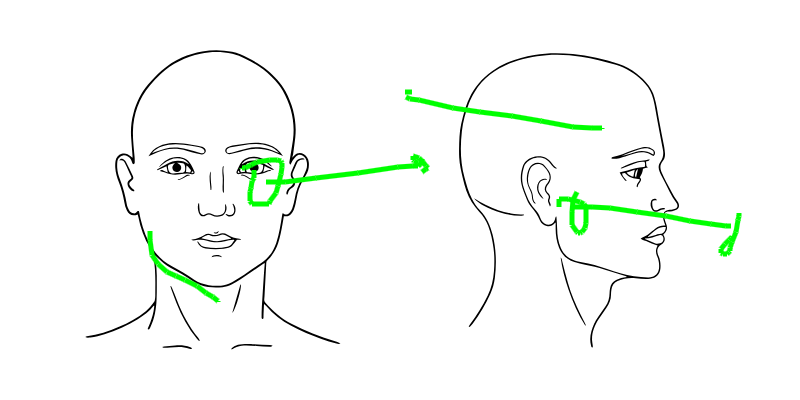
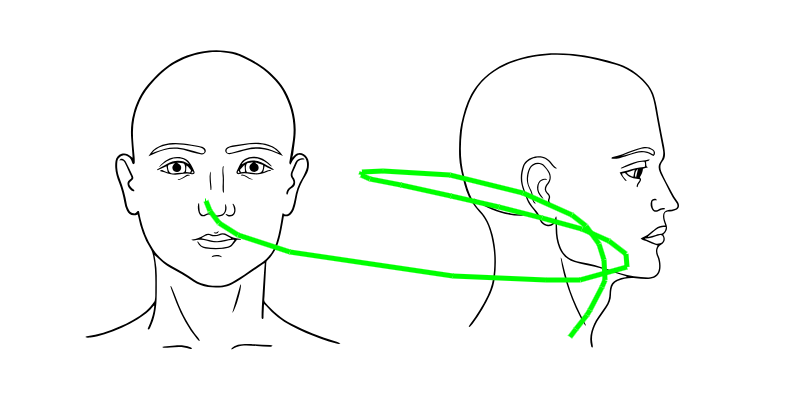
fix bug gambar lokalis asesmen estetika

diff --git a/resources/views/erm/asesmendokter/partials/estetika.blade.php b/resources/views/erm/asesmendokter/partials/estetika.blade.php
@@ -76,16 +76,19 @@
             <label for="kebiasaan_makan">Kebiasaan Makan</label>
             <select class="form-control select2" id="kebiasaan_makan" name="kebiasaan_makan[]" multiple>
                 
-                <option value="Berlemak">Berlemak</option>
-<option value="Tepung-tepungan">Tepung-tepungan</option>
-<option value="Sayur">Sayur</option>
-<option value="Protein seimbang">Protein seimbang</option>
-<option value="Tanpa sayur">Tanpa sayur</option>
-<option value="Tanpa daging">Tanpa daging</option>
-<option value="Makan sehat">Makan sehat</option>
-<option value="Tidak teratur">Tidak teratur</option>
-<option value="Protein">Protein</option>
-<option value="Makanan Manis">Makanan Manis</option>
+                @php
+                    $selectedKebiasaanMakan = old('kebiasaan_makan', json_decode($asesmen->kebiasaan_makan ?? '[]', true));
+                @endphp
+                <option value="Berlemak" {{ in_array('Berlemak', $selectedKebiasaanMakan) ? 'selected' : '' }}>Berlemak</option>
+                <option value="Tepung-tepungan" {{ in_array('Tepung-tepungan', $selectedKebiasaanMakan) ? 'selected' : '' }}>Tepung-tepungan</option>
+                <option value="Sayur" {{ in_array('Sayur', $selectedKebiasaanMakan) ? 'selected' : '' }}>Sayur</option>
+                <option value="Protein seimbang" {{ in_array('Protein seimbang', $selectedKebiasaanMakan) ? 'selected' : '' }}>Protein seimbang</option>
+                <option value="Tanpa sayur" {{ in_array('Tanpa sayur', $selectedKebiasaanMakan) ? 'selected' : '' }}>Tanpa sayur</option>
+                <option value="Tanpa daging" {{ in_array('Tanpa daging', $selectedKebiasaanMakan) ? 'selected' : '' }}>Tanpa daging</option>
+                <option value="Makan sehat" {{ in_array('Makan sehat', $selectedKebiasaanMakan) ? 'selected' : '' }}>Makan sehat</option>
+                <option value="Tidak teratur" {{ in_array('Tidak teratur', $selectedKebiasaanMakan) ? 'selected' : '' }}>Tidak teratur</option>
+                <option value="Protein" {{ in_array('Protein', $selectedKebiasaanMakan) ? 'selected' : '' }}>Protein</option>
+                <option value="Makanan Manis" {{ in_array('Makanan Manis', $selectedKebiasaanMakan) ? 'selected' : '' }}>Makanan Manis</option>
             </select>
         </div>
     </div>
@@ -93,9 +96,12 @@
         <div class="form-group">
             <label for="kebiasaan_minum">Kebiasaan Minum</label>
             <select class="form-control select2" id="kebiasaan_minum" name="kebiasaan_minum[]" multiple>
-                <option value="8 gelas / hari">8 gelas / hari</option>
-<option value="< 8 gelas / hari">&lt; 8 gelas / hari</option>
-<option value="Suka minum manis">Suka minum manis</option>
+                @php
+                    $selectedKebiasaanMinum = old('kebiasaan_minum', json_decode($asesmen->kebiasaan_minum ?? '[]', true));
+                @endphp
+                <option value="8 gelas / hari" {{ in_array('8 gelas / hari', $selectedKebiasaanMinum) ? 'selected' : '' }}>8 gelas / hari</option>
+                <option value="< 8 gelas / hari" {{ in_array('< 8 gelas / hari', $selectedKebiasaanMinum) ? 'selected' : '' }}>&lt; 8 gelas / hari</option>
+                <option value="Suka minum manis" {{ in_array('Suka minum manis', $selectedKebiasaanMinum) ? 'selected' : '' }}>Suka minum manis</option>
 
             </select>
         </div>
@@ -182,13 +188,16 @@
         <div class="form-group">
             <label for="area_kerutan">Area Kerutan</label>
             <select class="form-control select2" id="area_kerutan" name="area_kerutan[]" multiple>
-               <option value="Dahi">Dahi</option>
-<option value="Sudut mata">Sudut mata</option>
-<option value="Hidung">Hidung</option>
-<option value="Sudut bibir">Sudut bibir</option>
-<option value="Minimal">Minimal</option>
-<option value="Merata">Merata</option>
-<option value="Pipi">Pipi</option>
+               @php
+                    $selectedAreaKerutan = old('area_kerutan', json_decode($asesmen->area_kerutan ?? '[]', true));
+                @endphp
+                <option value="Dahi" {{ in_array('Dahi', $selectedAreaKerutan) ? 'selected' : '' }}>Dahi</option>
+                <option value="Sudut mata" {{ in_array('Sudut mata', $selectedAreaKerutan) ? 'selected' : '' }}>Sudut mata</option>
+                <option value="Hidung" {{ in_array('Hidung', $selectedAreaKerutan) ? 'selected' : '' }}>Hidung</option>
+                <option value="Sudut bibir" {{ in_array('Sudut bibir', $selectedAreaKerutan) ? 'selected' : '' }}>Sudut bibir</option>
+                <option value="Minimal" {{ in_array('Minimal', $selectedAreaKerutan) ? 'selected' : '' }}>Minimal</option>
+                <option value="Merata" {{ in_array('Merata', $selectedAreaKerutan) ? 'selected' : '' }}>Merata</option>
+                <option value="Pipi" {{ in_array('Pipi', $selectedAreaKerutan) ? 'selected' : '' }}>Pipi</option>
 
             </select>
         </div>
@@ -211,21 +220,24 @@
         <div class="form-group">
             <label for="kelainan_kulit">Kelainan Kulit</label>
             <select class="form-control select2" id="kelainan_kulit" name="kelainan_kulit[]" multiple>
-                <option value="Pori besar">Pori besar</option>
-<option value="Hiperpigmentasi">Hiperpigmentasi</option>
-<option value="Hipopigmentasi">Hipopigmentasi</option>
-<option value="Acne milia">Acne milia</option>
-<option value="Acne kistik">Acne kistik</option>
-<option value="Acne nodul">Acne nodul</option>
-<option value="Naevus pigmentosus">Naevus pigmentosus</option>
-<option value="Scar hipertrofi">Scar hipertrofi</option>
-<option value="Keloid">Keloid</option>
-<option value="Striae">Striae</option>
-<option value="Tidak ada">Tidak ada</option>
-<option value="Acne komedonal">Acne komedonal</option>
-<option value="Early Aging">Early Aging</option>
-<option value="Scar">Scar</option>
-<option value="PIE/PIH">PIE/PIH</option>
+                @php
+                    $selectedKelainanKulit = old('kelainan_kulit', json_decode($asesmen->kelainan_kulit ?? '[]', true));
+                @endphp
+                <option value="Pori besar" {{ in_array('Pori besar', $selectedKelainanKulit) ? 'selected' : '' }}>Pori besar</option>
+                <option value="Hiperpigmentasi" {{ in_array('Hiperpigmentasi', $selectedKelainanKulit) ? 'selected' : '' }}>Hiperpigmentasi</option>
+                <option value="Hipopigmentasi" {{ in_array('Hipopigmentasi', $selectedKelainanKulit) ? 'selected' : '' }}>Hipopigmentasi</option>
+                <option value="Acne milia" {{ in_array('Acne milia', $selectedKelainanKulit) ? 'selected' : '' }}>Acne milia</option>
+                <option value="Acne kistik" {{ in_array('Acne kistik', $selectedKelainanKulit) ? 'selected' : '' }}>Acne kistik</option>
+                <option value="Acne nodul" {{ in_array('Acne nodul', $selectedKelainanKulit) ? 'selected' : '' }}>Acne nodul</option>
+                <option value="Naevus pigmentosus" {{ in_array('Naevus pigmentosus', $selectedKelainanKulit) ? 'selected' : '' }}>Naevus pigmentosus</option>
+                <option value="Scar hipertrofi" {{ in_array('Scar hipertrofi', $selectedKelainanKulit) ? 'selected' : '' }}>Scar hipertrofi</option>
+                <option value="Keloid" {{ in_array('Keloid', $selectedKelainanKulit) ? 'selected' : '' }}>Keloid</option>
+                <option value="Striae" {{ in_array('Striae', $selectedKelainanKulit) ? 'selected' : '' }}>Striae</option>
+                <option value="Tidak ada" {{ in_array('Tidak ada', $selectedKelainanKulit) ? 'selected' : '' }}>Tidak ada</option>
+                <option value="Acne komedonal" {{ in_array('Acne komedonal', $selectedKelainanKulit) ? 'selected' : '' }}>Acne komedonal</option>
+                <option value="Early Aging" {{ in_array('Early Aging', $selectedKelainanKulit) ? 'selected' : '' }}>Early Aging</option>
+                <option value="Scar" {{ in_array('Scar', $selectedKelainanKulit) ? 'selected' : '' }}>Scar</option>
+                <option value="PIE/PIH" {{ in_array('PIE/PIH', $selectedKelainanKulit) ? 'selected' : '' }}>PIE/PIH</option>
 
             </select>
         </div>
@@ -254,7 +266,7 @@
 
                             <!-- Textarea -->
                             <div class="col-12 mb-3">
-                                <textarea class="form-control" rows="4" placeholder="Tuliskan deskripsi tanda..."></textarea>
+                                <textarea id="ket_status_lokalis" name="ket_status_lokalis" class="form-control" rows="4" placeholder="Tuliskan deskripsi tanda...">{{ old('ket_status_lokalis', $asesmen->ket_status_lokalis ?? '') }}</textarea>
                             </div>
 
                             <!-- Hidden field for image -->

diff --git a/app/Http/Controllers/ERM/AsesmenController.php b/app/Http/Controllers/ERM/AsesmenController.php
@@ -159,9 +159,14 @@ class AsesmenController extends Controller
 
     private function storeAsesmenEstetika(Request $request)
     {
-        if ($request->has('status_lokalis_image')) {
+        // Check if a new image is provided
+        if ($request->has('status_lokalis_image') && !empty($request->status_lokalis_image)) {
             $this->saveLokalisImage($request);
         }
+
+        // Retain the existing image if no new image is provided
+        $existingAsesmen = AsesmenEstetika::where('visitation_id', $request->visitation_id)->first();
+        $statusLokalis = $existingAsesmen->status_lokalis ?? null;
 
         AsesmenEstetika::updateOrCreate(
             ['visitation_id' => $request->visitation_id],
@@ -181,18 +186,18 @@ class AsesmenController extends Controller
                 'n' => $request->n,
                 'r' => $request->r,
                 's' => $request->s,
-                'kebiasaan_makan' => $request->kebiasaan_makan,
-                'kebiasaan_minum' => $request->kebiasaan_minum,
+                'kebiasaan_makan' => $request->filled('kebiasaan_makan') ? json_encode($request->kebiasaan_makan) : null, // Convert array to JSON
+                'kebiasaan_minum' => $request->filled('kebiasaan_minum') ? json_encode($request->kebiasaan_minum) : null, // Convert array to JSON
                 'pola_tidur' => $request->pola_tidur,
                 'kontrasepsi' => $request->kontrasepsi,
                 'riwayat_perawatan' => $request->riwayat_perawatan,
                 'jenis_kulit' => $request->jenis_kulit,
-                'kelembapan' => $request->kelembapan,
+                'kelembaban' => $request->kelembaban,
                 'kekenyalan' => $request->kekenyalan,
-                'area_kerutan' => $request->area_kerutan,
-                'kelainan_kulit' => $request->kelainan_kulit,
+                'area_kerutan' => $request->filled('area_kerutan') ? json_encode($request->area_kerutan) : null, // Convert array to JSON
+                'kelainan_kulit' => $request->filled('kelainan_kulit') ? json_encode($request->kelainan_kulit) : null, // Convert array to JSON
                 'anjuran' => $request->anjuran,
-                'status_lokalis' => $request->status_lokalis,
+                'status_lokalis' => $request->status_lokalis ?? $statusLokalis,
                 'ket_status_lokalis' => $request->ket_status_lokalis,
             ]
         );

diff --git a/resources/views/erm/asesmendokter/create.blade.php b/resources/views/erm/asesmendokter/create.blade.php
@@ -498,12 +498,22 @@ window.onload = function () {
     const canvas = document.getElementById("drawingCanvas");
     const ctx = canvas.getContext("2d");
     const imagePath = "{{ asset($lokalisBackground) }}";
-    
+    const savedImagePath = "{{ asset($lokalisPath) }}"; // Load the saved image path
+
     const img = new Image();
     img.onload = function () {
         canvas.width = img.width;
         canvas.height = img.height;
         ctx.drawImage(img, 0, 0);
+
+        // Load the saved image (if it exists)
+        if (savedImagePath) {
+            const savedImg = new Image();
+            savedImg.onload = function () {
+                ctx.drawImage(savedImg, 0, 0); // Draw the saved image on top of the background
+            };
+            savedImg.src = savedImagePath;
+        }
 
         ctx.strokeStyle = "#00FF00";
         ctx.lineWidth = 5;
@@ -535,7 +545,7 @@ window.onload = function () {
 
         document.getElementById('resetButton').addEventListener('click', function () {
             ctx.clearRect(0, 0, canvas.width, canvas.height);
-            ctx.drawImage(img, 0, 0);  // Reset to background image
+            ctx.drawImage(img, 0, 0); // Reset to background image
         });
     };
 

diff --git a/database/migrations/2025_05_31_123616_create_erm_asesmen_estetika_table.php b/database/migrations/2025_05_31_123616_create_erm_asesmen_estetika_table.php
@@ -35,7 +35,7 @@ return new class extends Migration
             $table->string('kontrasepsi')->nullable();          // select2 (single)
             $table->string('riwayat_perawatan')->nullable();    // select2 (single)
             $table->string('jenis_kulit')->nullable();          // select2 (single)
-            $table->integer('kelembapan')->nullable();  // scale 1-3
+            $table->integer('kelembaban')->nullable();  // scale 1-3
             $table->integer('kekenyalan')->nullable();  // scale 1-3
             $table->json('area_kerutan')->nullable();           // select2 multiple
             $table->json('kelainan_kulit')->nullable();         // select2 multiple

diff --git a/app/Models/ERM/AsesmenEstetika.php b/app/Models/ERM/AsesmenEstetika.php
@@ -31,7 +31,7 @@ class AsesmenEstetika extends Model
         'kontrasepsi',
         'riwayat_perawatan',
         'jenis_kulit',
-        'kelembapan',
+        'kelembaban',
         'kekenyalan',
         'area_kerutan',
         'kelainan_kulit',
